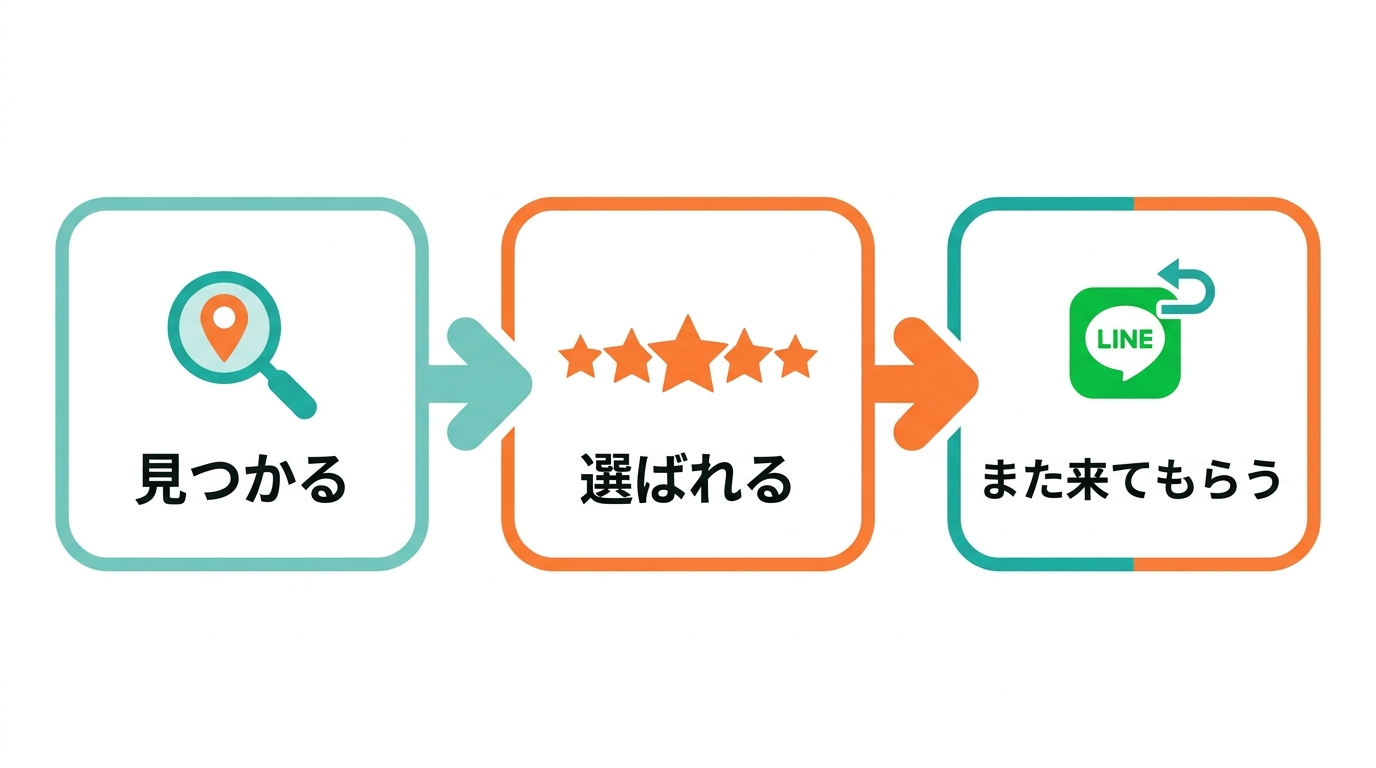
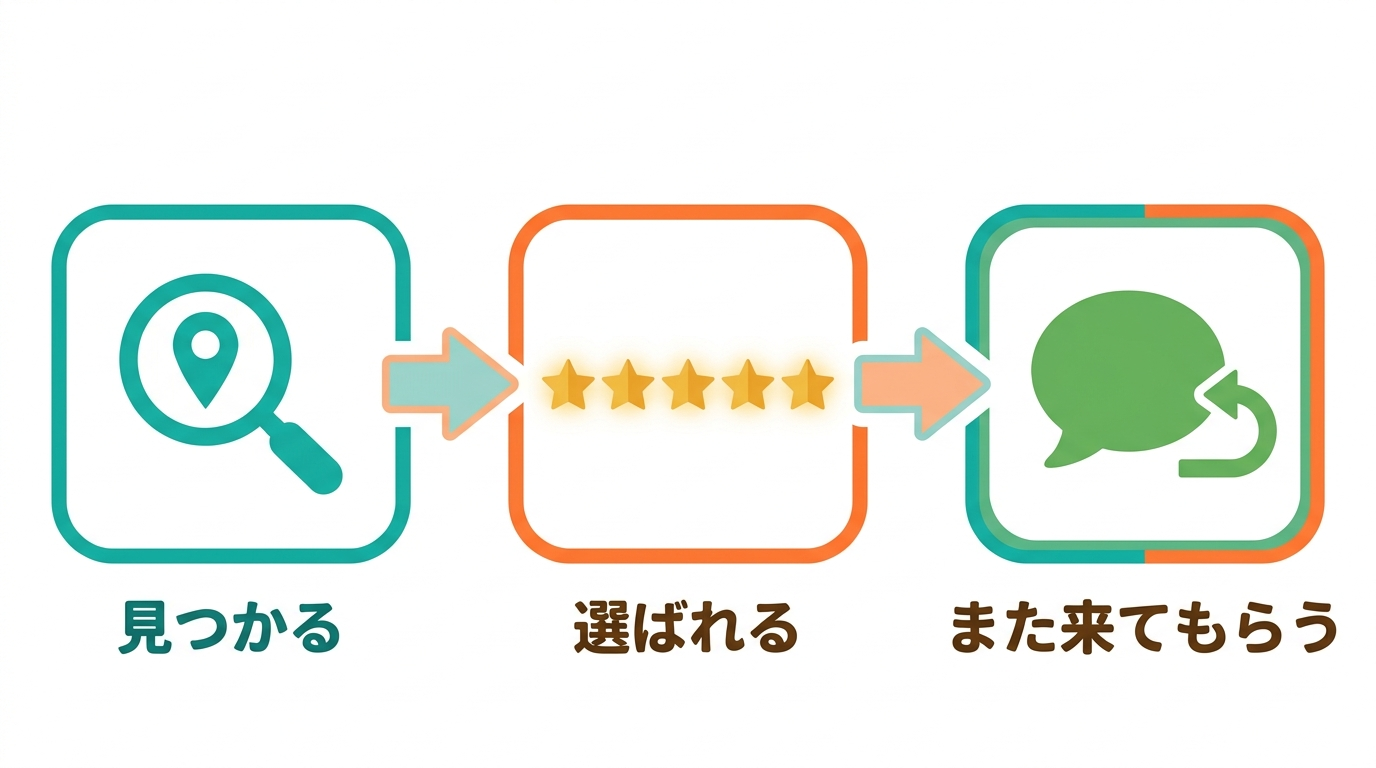
/line/ 修正: LINE標準化・見出し整形・商標セーフ画像に差し替え
- LINEを月額に標準化（カード③の「オプション」表記を削除、料金featsに追加）
- 従量メッセージ料金のみお店負担の注記を明記
- 見出しの折り返し割れを修正（集客のぜんぶを、まるっとおまかせ）
- 価値フロー図をLINEロゴ非使用の汎用チャット吹き出しに差し替え（商標配慮）
- 画像表示をaspect-ratio指定で堅牢化

diff --git a/line/index.html b/line/index.html
@@ -202,8 +202,8 @@ footer{padding-bottom:98px}
 
 <section class="sec alt">
   <div class="wrap">
-    <div class="htitle"><span class="en">SERVICE</span><h2>「見つかる」から「また来てもらう」まで、<span class="u">まるっと</span></h2></div>
-    <img src="assets/valueflow.png" alt="見つかる→選ばれる→また来てもらう の3ステップ" style="width:100%;max-width:560px;margin:0 auto 22px;display:block;border-radius:16px" width="1280" height="720" loading="lazy">
+    <div class="htitle"><span class="en">SERVICE</span><h2>集客のぜんぶを、<span class="u" style="white-space:nowrap">まるっとおまかせ</span></h2></div>
+    <img src="assets/valueflow.png" alt="見つかる→選ばれる→また来てもらう の3ステップ" style="width:100%;max-width:520px;aspect-ratio:16/9;object-fit:contain;margin:0 auto 22px;display:block" width="1376" height="768" loading="lazy">
     <div class="pk">
       <div class="pkc">
         <div class="no">01</div>
@@ -221,14 +221,14 @@ footer{padding-bottom:98px}
       </div>
       <div class="pkc">
         <div class="no">03</div>
-        <div class="vlab" style="display:inline-block;background:var(--orange);color:#fff;font-weight:900;font-size:12px;padding:3px 12px;border-radius:20px;margin-bottom:8px">🔁 また来てもらう<span style="font-size:10px;opacity:.9">（オプション）</span></div>
+        <div class="vlab" style="display:inline-block;background:var(--teal);color:#fff;font-weight:900;font-size:12px;padding:3px 12px;border-radius:20px;margin-bottom:8px">🔁 また来てもらう</div>
         <h3>公式LINEで予約・自動応答</h3>
         <p>LINEから24時間予約を受付け、よくある質問には自動応答。前日リマインドや来店後のごあいさつで、<b>一度きりのお客さまを"常連"に</b>変えていきます。</p>
         <span class="tagline">「来てもらう」の先の「また来てもらう」まで</span>
       </div>
     </div>
 
-    <p style="text-align:center;margin-top:24px;font-size:13.5px;color:var(--ink-2)">※ <b style="color:var(--orange-d)">③ 公式LINE</b> はオプションです（月額プランは別途ご案内）</p>
+    <p style="text-align:center;margin-top:24px;font-size:13.5px;color:var(--ink-2);line-height:1.7">上記 <b style="color:var(--teal-d)">①〜③すべて月額料金に込み</b>。<br>※ LINEから配信するメッセージの従量料金（LINE社への支払い分）のみ、お店のご負担となります。</p>
   </div>
 </section>
 
@@ -285,9 +285,10 @@ footer{padding-bottom:98px}
           <span>ホームページ作成</span>
           <span>Google（MEO）初期設定</span>
           <span>口コミが増える仕組み（ツール込み）</span>
+          <span><b style="color:var(--orange-d)">公式LINE予約・自動応答</b></span>
           <span>月次のかんたんレポート</span>
         </div>
-        <div style="margin-top:14px;font-size:13px;color:var(--ink);border-top:1px dashed #cfe6e2;padding-top:12px">＋ <b style="color:var(--orange-d)">公式LINE予約・自動応答</b>（オプション）も追加できます</div>
+        <div style="margin-top:14px;font-size:12.5px;color:var(--ink-2);border-top:1px dashed #cfe6e2;padding-top:12px">※ LINEから配信するメッセージの従量料金（LINE社への支払い分）のみ、お店のご負担となります。</div>
       </div>
     </div>
   </div>
